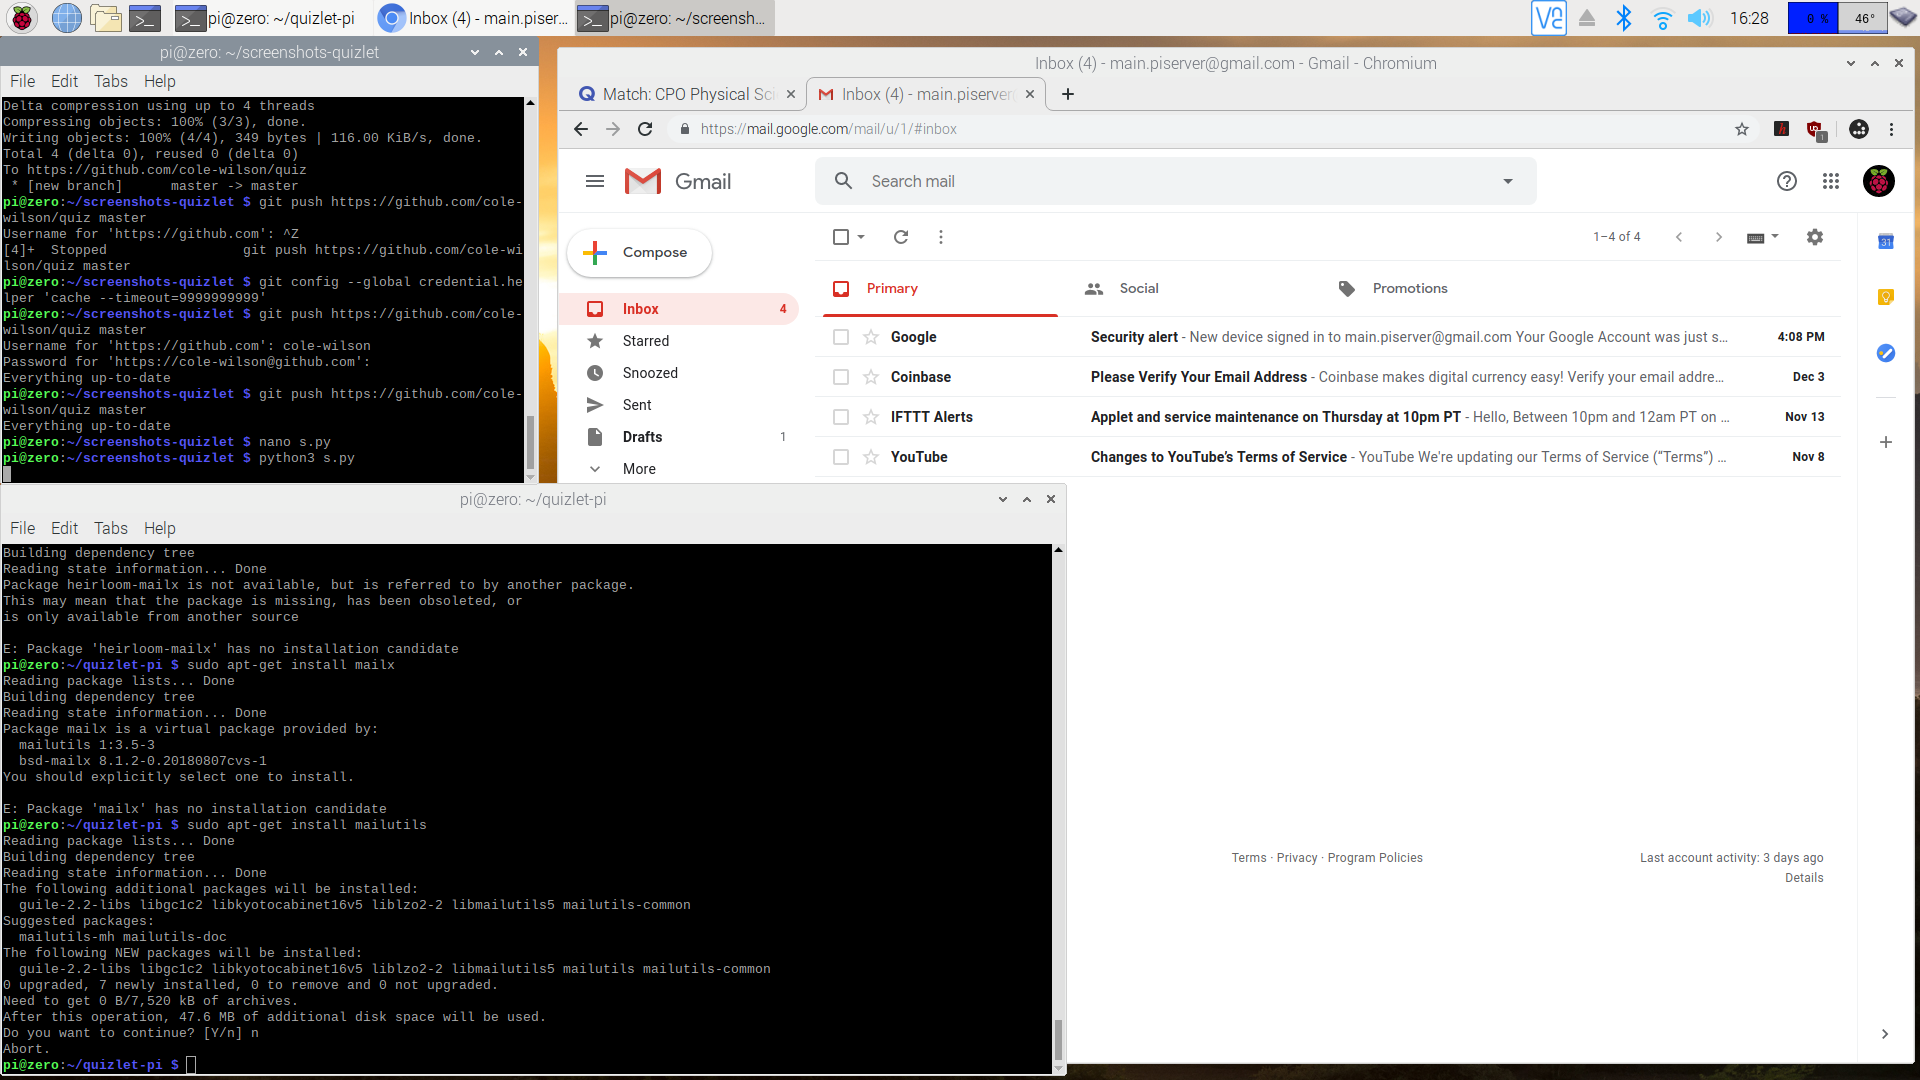
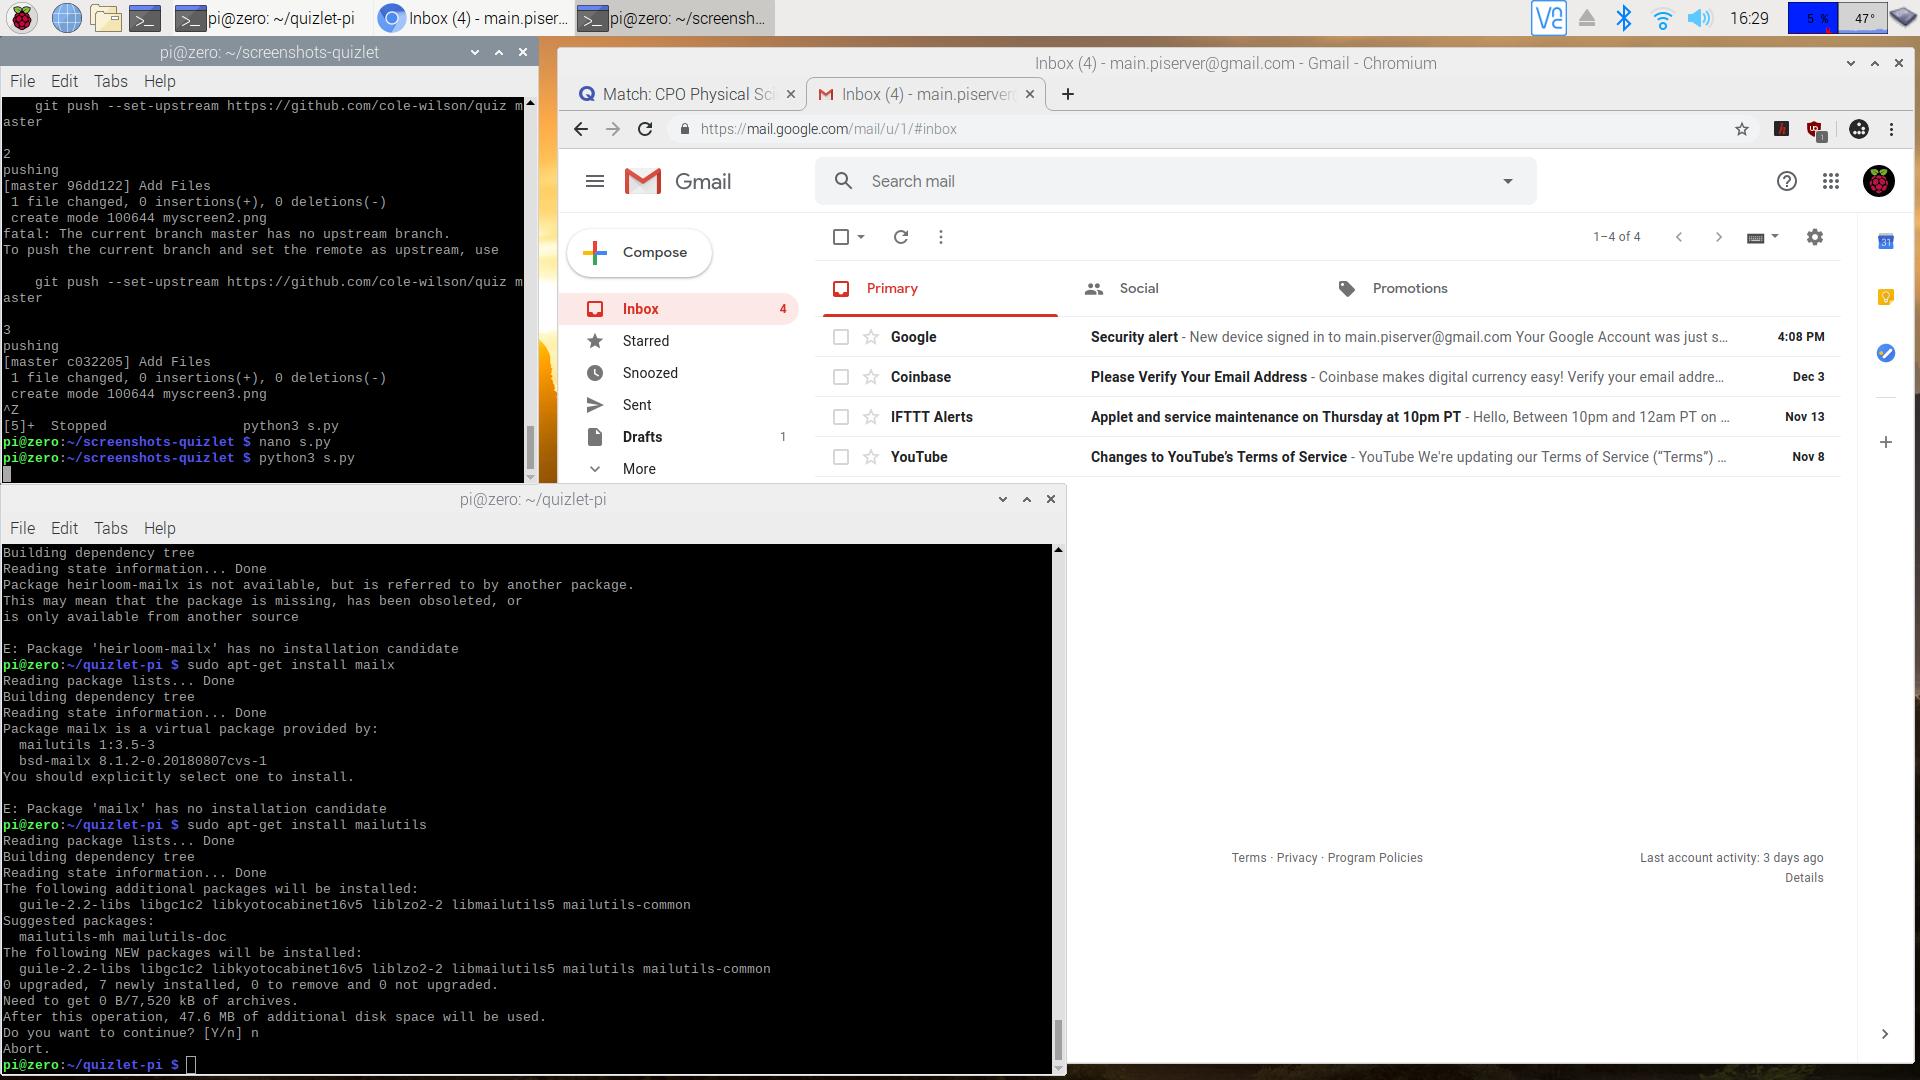
Add Files

Changed region(s): [[0.0, 0.0917, 0.2812, 0.3972]]

diff --git a/s.py b/s.py
@@ -9,4 +9,4 @@ while True:
 	time.sleep(1)
 	if xc % 1 == 0:
 		print('pushing')
-		os.system('git add *;git commit * -m "Add Files";git push https://github.com/cole-wilson/quiz')
+		os.system('git add *;git commit * -m "Add Files";git push https://github.com/cole-wilson/quiz master')
